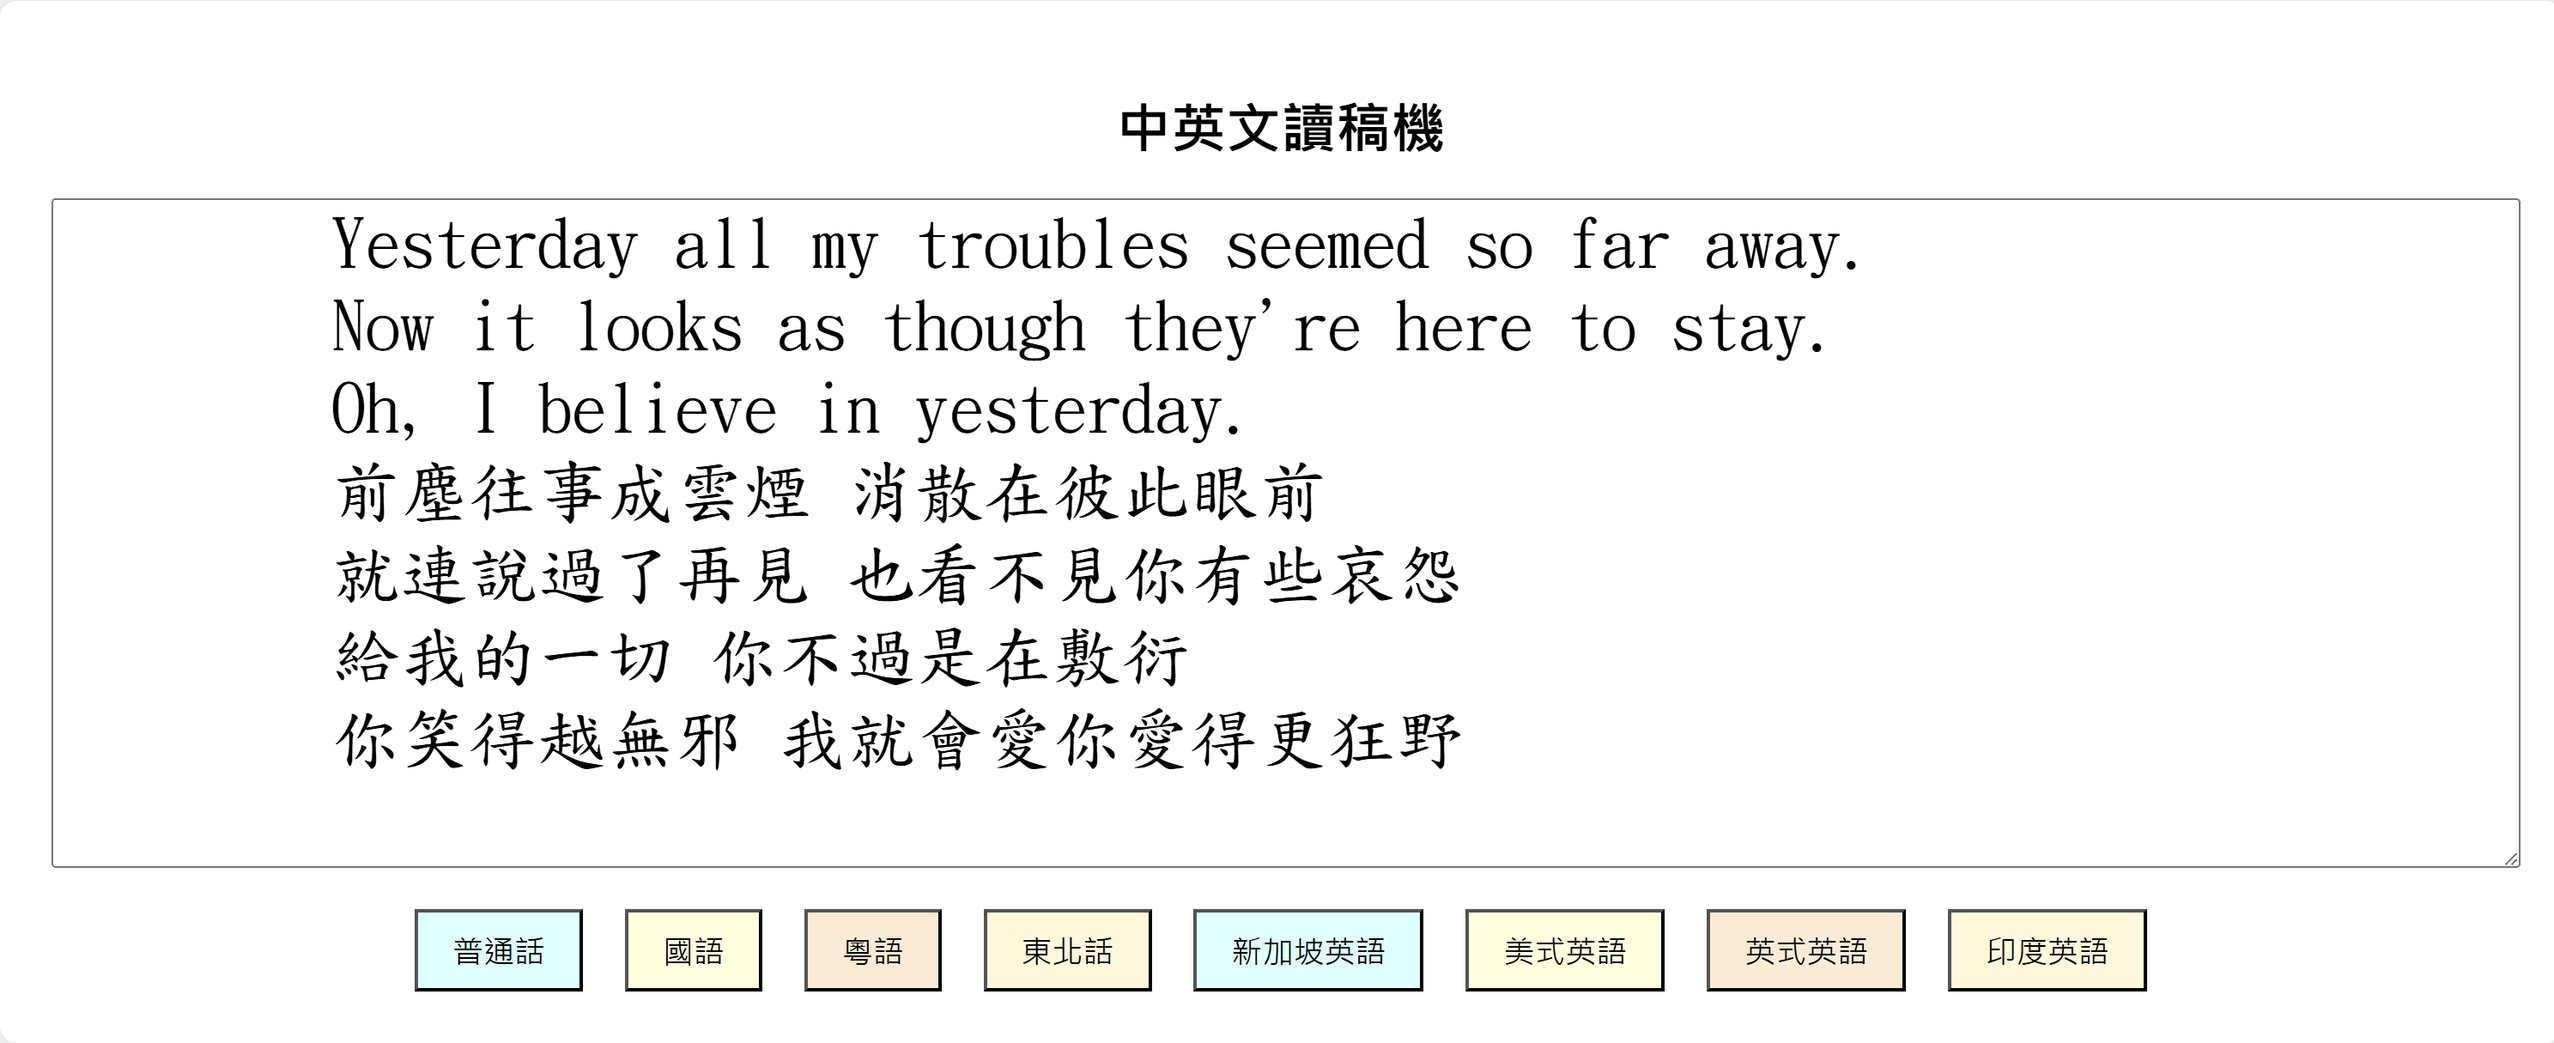
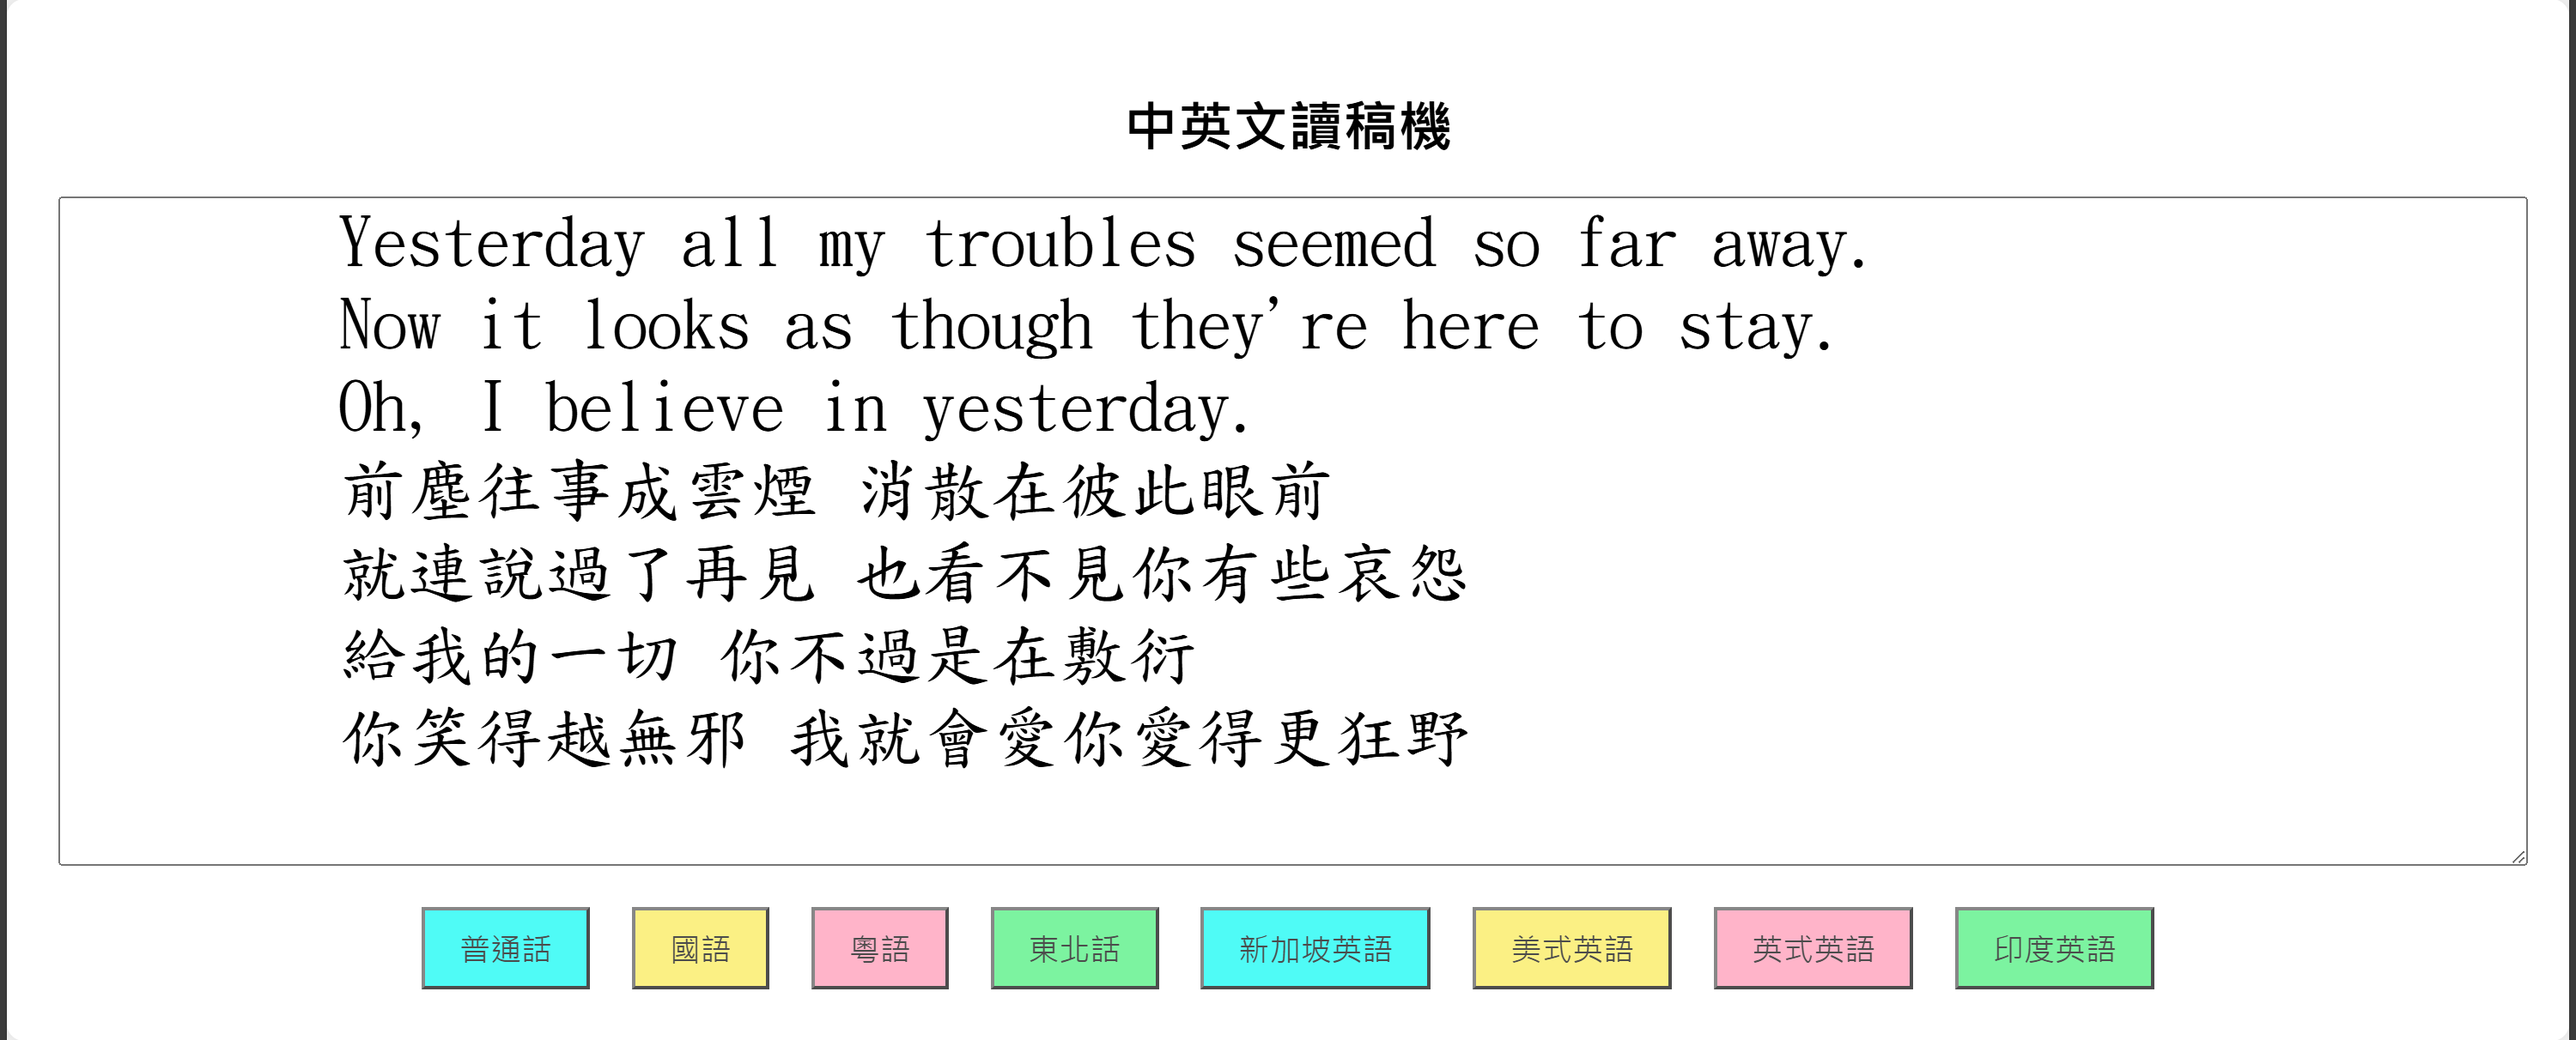
cosmetic change

diff --git a/index.html b/index.html
@@ -1,15 +1,19 @@
 <!DOCTYPE html>
 <html lang="en">
-<head>
-    <meta charset="UTF-8">
-    <meta name="viewport" content="width=device-width, initial-scale=1.0">
-    <title>Chinese Paragraph Reader</title>
-    <link rel="stylesheet" href="styles.css">
-</head>
-<body>
+  <head>
+    <meta charset="UTF-8" />
+    <meta name="viewport" content="width=device-width, initial-scale=1.0" />
+    <meta
+      http-equiv="Content-Security-Policy"
+      content="default-src 'self'; img-src *; script-src *;"
+    />
+    <title>Read Aloud</title>
+    <link rel="stylesheet" href="styles.css" />
+  </head>
+  <body>
     <div class="container">
-        <h1>中英文讀稿機</h1>
-        <textarea id="textInput" rows="8" cols="50">
+      <h1>中英文讀稿機</h1>
+      <textarea id="textInput" rows="8" cols="50">
         Yesterday all my troubles seemed so far away.
         Now it looks as though they're here to stay.
         Oh, I believe in yesterday.
@@ -17,16 +21,17 @@
         就連說過了再見 也看不見你有些哀怨
         給我的一切 你不過是在敷衍
         你笑得越無邪 我就會愛你愛得更狂野
-        </textarea>
-        <button id="mandarinButton">普通話</button>
-        <button id="guoyuButton">國語</button>
-        <button id="cantoneseButton">粵語</button>
-        <button id="northeasternButton">東北話</button>
-        <button id="singaporeenglishButton">新加坡英語</button>
-        <button id="usenglishButton">美式英語</button>
-        <button id="ukenglishButton">英式英語</button>
-        <button id="indiaenglishButton">印度英語</button>
+        </textarea
+      >
+      <button id="mandarinButton">普通話</button>
+      <button id="guoyuButton">國語</button>
+      <button id="cantoneseButton">粵語</button>
+      <button id="northeasternButton">東北話</button>
+      <button id="singaporeenglishButton">新加坡英語</button>
+      <button id="usenglishButton">美式英語</button>
+      <button id="ukenglishButton">英式英語</button>
+      <button id="indiaenglishButton">印度英語</button>
     </div>
     <script src="script.js"></script>
-</body>
+  </body>
 </html>

diff --git a/styles.css b/styles.css
@@ -29,36 +29,41 @@ button {
     margin: 0 10px;
     cursor: pointer;
     font-size: large;
+    opacity: 0.7;
+}
+
+button:hover {
+    opacity: 1;
 }
 
 #mandarinButton {
-    background-color:lightcyan;
+    background-color:#04F9F2;
 }
 
 #guoyuButton {
-    background-color:lightyellow;
+    background-color:#F9E950;
 }
 
 #cantoneseButton {
-    background-color:antiquewhite;
+    background-color:#FF94B2;
 }
 
 #northeasternButton {
-    background-color:cornsilk;
+    background-color:#44EE77;
 }
 
 #singaporeenglishButton {
-    background-color:lightcyan;
+    background-color:#04F9F2;
 }
 
 #usenglishButton {
-    background-color:lightyellow;
+    background-color:#F9E950;
 }
 
 #ukenglishButton {
-    background-color:antiquewhite;
+    background-color:#FF94B2;
 }
 
 #indiaenglishButton {
-    background-color:cornsilk;
+    background-color:#44EE77;
 }
